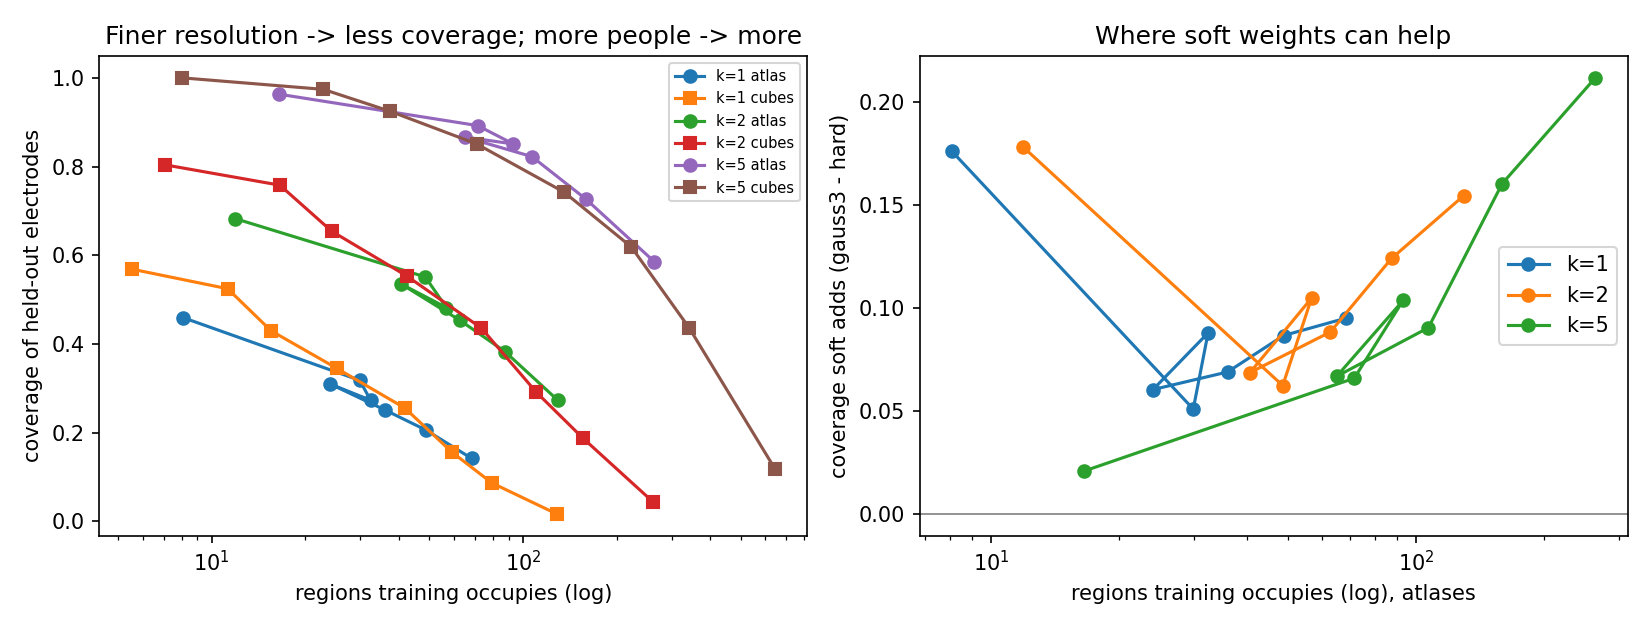
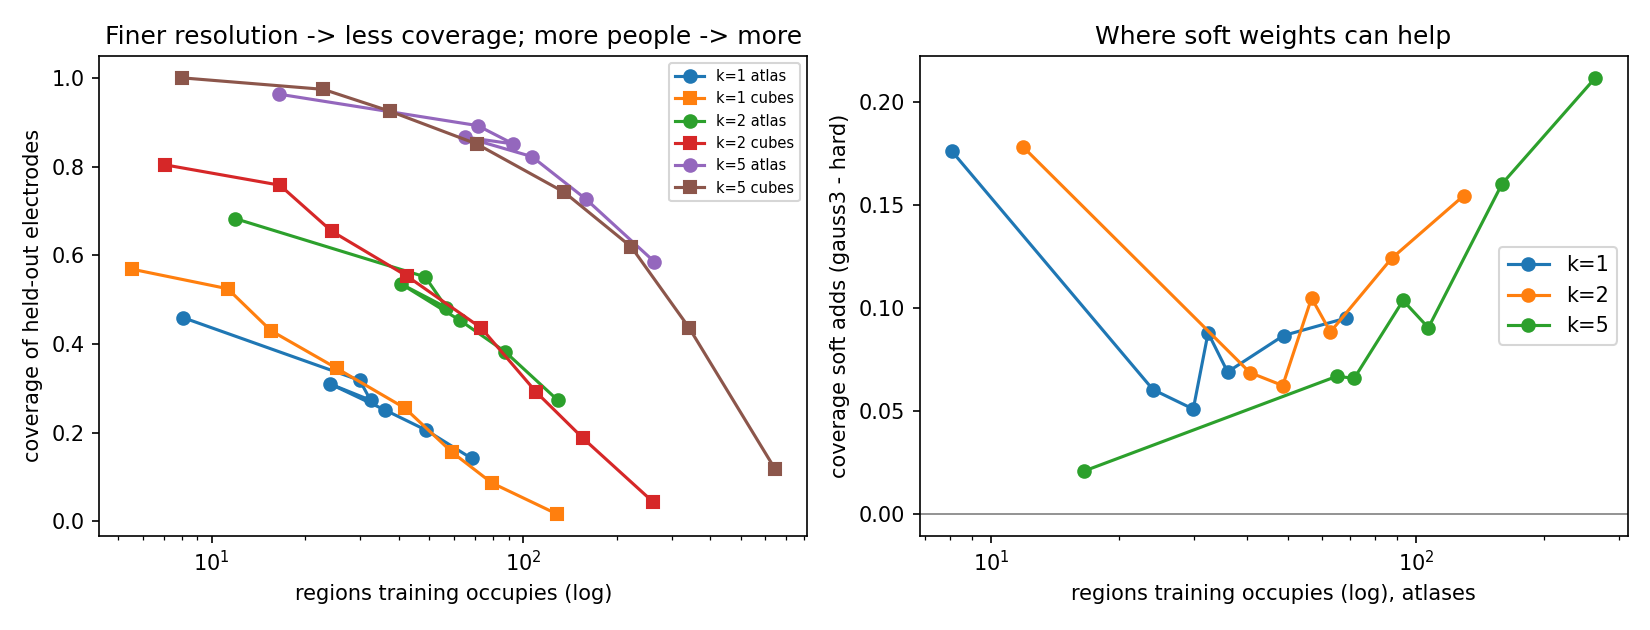
density_geometry: order atlas points by region count; --from-csv redraw
Claude-Session: https://claude.ai/code/session_01VjovaicWTv4QQVrdx2gdhx

diff --git a/spatialResolutionTesting/scripts/density_geometry.py b/spatialResolutionTesting/scripts/density_geometry.py
@@ -65,7 +65,10 @@ def main(argv=None):
     ap = argparse.ArgumentParser()
     ap.add_argument("--root", default=None, help="Brain Treebank root (default: config / $ROOT_DIR_BRAINTREEBANK)")
     ap.add_argument("--out", default=os.path.join(HERE, "..", "reports", "density_geometry"))
+    ap.add_argument("--from-csv", action="store_true", help="redraw tables/figure from <out>.csv")
     a = ap.parse_args(argv)
+    if a.from_csv:
+        return summarize(pd.read_csv(a.out + ".csv"), a.out)
     import yaml
     from locemb.spatial import assign
     root = a.root or yaml.safe_load(open(os.path.join(HERE, "..", "configs", "neuroprobe.yaml")))["data"].get("root") \
@@ -105,6 +108,10 @@ def main(argv=None):
     df = pd.DataFrame(rows)
     os.makedirs(os.path.dirname(a.out), exist_ok=True)
     df.to_csv(a.out + ".csv", index=False)
+    summarize(df, a.out)
+
+
+def summarize(df: pd.DataFrame, out: str):
 
     m = df.groupby(["encoding", "k"])[["n_regions", "e_per_region", "frac_lt3", "coverage"]].mean().unstack("k")
     order = ATLASES + [f"{x}_gauss3" for x in ATLASES] + [f"grid{h}" for h in CUBES]
@@ -121,7 +128,7 @@ def main(argv=None):
          "## Share of occupied regions with < 3 training electrodes\n", tab(m["frac_lt3"].round(2)),
          "## Coverage: held-out weight on regions training saw\n", tab(m["coverage"].round(3)),
          "## Coverage soft adds (gauss3 - hard)\n", tab(gain.round(3))]
-    with open(a.out + ".md", "w") as f:
+    with open(out + ".md", "w") as f:
         f.write("\n".join(L))
     print("\n".join(L))
 
@@ -139,7 +146,8 @@ def main(argv=None):
     ax[0].set_title("Finer resolution -> less coverage; more people -> more")
     ax[0].legend(fontsize=7)
     for k in KS:
-        ax[1].plot(m.reindex(ATLASES)[("n_regions", k)], gain[k], marker="o", label=f"k={k}")
+        pts = pd.DataFrame({"n": m.reindex(ATLASES)[("n_regions", k)], "g": gain[k]}).sort_values("n")
+        ax[1].plot(pts["n"], pts["g"], marker="o", label=f"k={k}")
     ax[1].set_xscale("log")
     ax[1].axhline(0, color="grey", lw=0.8)
     ax[1].set_xlabel("regions training occupies (log), atlases")
@@ -147,7 +155,7 @@ def main(argv=None):
     ax[1].set_title("Where soft weights can help")
     ax[1].legend()
     fig.tight_layout()
-    fig.savefig(a.out + ".png", dpi=150)
+    fig.savefig(out + ".png", dpi=150)
 
 
 if __name__ == "__main__":
